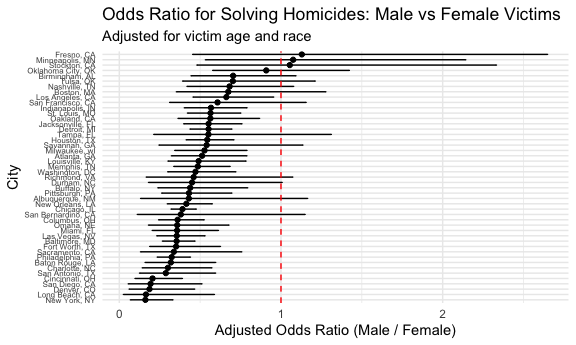
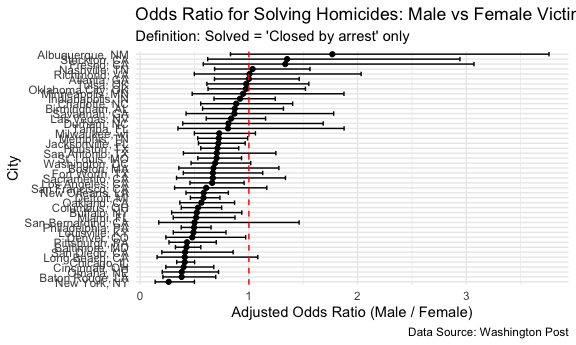
Revised

diff --git a/p8105_hw6_ym3138.md b/p8105_hw6_ym3138.md
@@ -24,127 +24,145 @@ knitr::opts_chunk$set(
 # Data cleaning and manipulation
 
 ``` r
-raw_data <- read_csv("data/homicide-data.csv")
-homicide_df <- raw_data |> 
-  mutate(city_state = str_c(city, state, sep = ", ")) |> 
-  # Create binary resolved variable (1 = Solved, 0 = Unsolved)
-  # Assuming "Closed by arrest" and "Closed without arrest" are solved
-  mutate(resolved = as.numeric(disposition %in% c("Closed by arrest", "Closed without arrest"))) |> 
-  # Omit specific cities
+raw_df = read_csv("data/homicide-data.csv")
+
+homicide_df = 
+  raw_df |> 
+  mutate(
+    city_state = str_c(city, state, sep = ", "),
+    resolved = as.numeric(disposition == "Closed by arrest"), # Strict definition
+    victim_age = as.numeric(victim_age),
+    victim_race = fct_relevel(victim_race, "White")
+  ) |> 
+  # Omit cities with data issues
   filter(!city_state %in% c("Dallas, TX", "Phoenix, AZ", "Kansas City, MO", "Tulsa, AL")) |> 
   # Limit to White or Black victim race
   filter(victim_race %in% c("White", "Black")) |> 
-  # Ensure victim_age is numeric
-  mutate(victim_age = as.numeric(victim_age)) |> 
-  # Filter out rows where age became NA (if any non-numeric values existed)
-  filter(!is.na(victim_age))
+  select(city_state, resolved, victim_age, victim_race, victim_sex)
 ```
 
-# Baltimore Analysis
-
 ``` r
-# Filter for Baltimore
-baltimore_df <- homicide_df |> 
+# Filter for Baltimore specifically
+baltimore_df = 
+  homicide_df |> 
   filter(city_state == "Baltimore, MD")
 
-# Fit logistic regression
-baltimore_glm <- glm(resolved ~ victim_age + victim_sex + victim_race, 
-                     data = baltimore_df, 
-                     family = binomial())
+# Fit the logistic regression model
+fit_logistic = 
+  baltimore_df |> 
+  glm(resolved ~ victim_age + victim_race + victim_sex, data = _, family = binomial()) 
 
-# Obtain tidy output with ORs and CIs
-baltimore_results <- baltimore_glm |> 
-  broom::tidy(conf.int = TRUE, exponentiate = TRUE) |> 
-  filter(term == "victim_sexMale") |> 
-  select(term, estimate, conf.low, conf.high)
-
-# Display results
-baltimore_results |> 
-  knitr::kable(digits = 3, caption = "Adjusted Odds Ratio for Male vs Female Victims in Baltimore")
+# Tidy the output and calculate Odds Ratios
+fit_logistic |> 
+  broom::tidy() |> 
+  mutate(OR = exp(estimate)) |>
+  select(term, log_OR = estimate, OR, p.value) |> 
+  knitr::kable(digits = 3, caption = "Baltimore Logistic Regression Results")
 ```
 
-| term           | estimate | conf.low | conf.high |
-|:---------------|---------:|---------:|----------:|
-| victim_sexMale |    0.355 |    0.267 |     0.468 |
+| term             | log_OR |    OR | p.value |
+|:-----------------|-------:|------:|--------:|
+| (Intercept)      |  1.152 | 3.164 |   0.000 |
+| victim_age       | -0.007 | 0.993 |   0.043 |
+| victim_raceBlack | -0.842 | 0.431 |   0.000 |
+| victim_sexMale   | -0.854 | 0.426 |   0.000 |
 
-Adjusted Odds Ratio for Male vs Female Victims in Baltimore
-
-For Baltimore, the adjusted odds ratio for solving homicides comparing
-male victims to female victims is 0.355 (95% CI: 0.267 - 0.468). This
-indicates that homicides with male victims are significantly less likely
-to be solved than those with female victims, holding age and race
-constant.
-
-# All city analysis
+Baltimore Logistic Regression Results
 
 ``` r
-# Run glm for each city and extract OR for male sex
-city_results <- homicide_df |> 
-  group_by(city_state) |> 
-  nest() |> 
+# Add predictions (as per your snippet)
+baltimore_df |> 
+  modelr::add_predictions(fit_logistic) |> 
+  mutate(fitted_prob = boot::inv.logit(pred)) |> 
+  head() |> 
+  knitr::kable(digits = 3, caption = "First 6 rows with fitted probabilities")
+```
+
+| city_state    | resolved | victim_age | victim_race | victim_sex |   pred | fitted_prob |
+|:--------------|---------:|-----------:|:------------|:-----------|-------:|------------:|
+| Baltimore, MD |        0 |         17 | Black       | Male       | -0.659 |       0.341 |
+| Baltimore, MD |        0 |         26 | Black       | Male       | -0.719 |       0.328 |
+| Baltimore, MD |        0 |         21 | Black       | Male       | -0.686 |       0.335 |
+| Baltimore, MD |        1 |         61 | White       | Male       | -0.113 |       0.472 |
+| Baltimore, MD |        1 |         46 | Black       | Male       | -0.854 |       0.299 |
+| Baltimore, MD |        1 |         27 | Black       | Male       | -0.726 |       0.326 |
+
+First 6 rows with fitted probabilities
+
+``` r
+cities_glm = 
+  homicide_df |> 
+  nest(data = -city_state) |> 
   mutate(
-    # Fit model for each city
-    model = map(data, ~glm(resolved ~ victim_age + victim_sex + victim_race, 
-                           data = ., 
-                           family = binomial())),
-    # Tidy the model output to get estimates and CIs
-    results = map(model, ~broom::tidy(., conf.int = TRUE, exponentiate = TRUE))
+    models = map(data, \(df) glm(resolved ~ victim_age + victim_race + victim_sex, data = df, family = binomial())),
+    results = map(models, broom::tidy)
   ) |> 
-  unnest(results) |> 
-  # Filter for the term of interest (victim_sexMale)
+  select(-data, -models) |> 
+  unnest(results)
+
+# Filter for the term of interest (Male victim) and calculate ORs
+cities_OR = 
+  cities_glm |> 
   filter(term == "victim_sexMale") |> 
-  select(city_state, estimate, conf.low, conf.high)
+  mutate(
+    OR = exp(estimate),
+    OR_low = exp(estimate - 1.96 * std.error),
+    OR_high = exp(estimate + 1.96 * std.error)
+  ) |> 
+  select(city_state, OR, OR_low, OR_high)
+
+# Display top 5 cities by Odds Ratio
+cities_OR |> 
+  arrange(desc(OR)) |> 
+  head(5) |> 
+  knitr::kable(digits = 3, caption = "Top 5 Cities by Odds Ratio (Male vs Female)")
 ```
 
-# Viz
+| city_state      |    OR | OR_low | OR_high |
+|:----------------|------:|-------:|--------:|
+| Albuquerque, NM | 1.767 |  0.831 |   3.761 |
+| Stockton, CA    | 1.352 |  0.621 |   2.942 |
+| Fresno, CA      | 1.335 |  0.580 |   3.071 |
+| Nashville, TN   | 1.034 |  0.685 |   1.562 |
+| Richmond, VA    | 1.006 |  0.498 |   2.033 |
 
-We create a plot showing the estimated Odds Ratios and Confidence
-Intervals for each city, ordered by the magnitude of the OR.
+Top 5 Cities by Odds Ratio (Male vs Female)
 
 ``` r
-city_results |> 
-  ungroup() |>   # <--- THIS IS THE MISSING STEP
-  mutate(city_state = fct_reorder(city_state, estimate)) |> 
-  ggplot(aes(x = city_state, y = estimate)) +
+cities_OR |> 
+  ungroup() |> 
+  mutate(city_state = fct_reorder(city_state, OR)) |> 
+  ggplot(aes(x = city_state, y = OR)) +
   geom_point() +
-  geom_errorbar(aes(ymin = conf.low, ymax = conf.high), width = 0.2) +
+  geom_errorbar(aes(ymin = OR_low, ymax = OR_high)) +
   geom_hline(yintercept = 1, linetype = "dashed", color = "red") +
   coord_flip() +
   labs(
     title = "Odds Ratio for Solving Homicides: Male vs Female Victims",
-    subtitle = "Adjusted for victim age and race",
+    subtitle = "Definition: Solved = 'Closed by arrest' only",
     x = "City",
-    y = "Adjusted Odds Ratio (Male / Female)"
+    y = "Adjusted Odds Ratio (Male / Female)",
+    caption = "Data Source: Washington Post"
   ) +
-  theme_minimal() +
-  theme(axis.text.y = element_text(size = 6))
+  theme_minimal()
 ```
 
 <img src="p8105_hw6_ym3138_files/figure-gfm/unnamed-chunk-5-1.png" width="90%" />
 
-The plot displays the estimated adjusted odds ratios (ORs) for solving
-homicides comparing male victims to female victims across various major
-U.S. cities.
+The plot illustrates a widespread disparity in homicide resolution
+across major U.S. cities. For nearly all cities, the estimated Odds
+Ratio (OR) is less than 1.0, indicating that homicides with male victims
+are significantly less likely to be “closed by arrest” than those with
+female victims, even after adjusting for victim age and race. Cities
+like New York and Long Beach show particularly strong disparities, with
+the odds of resolution for males often half that of females.
 
-In the vast majority of cities, the estimated odds ratio is below 1.
-This suggests that, holding victim age and race constant, homicides
-involving male victims are less likely to be cleared (solved) than those
-involving female victims.
-
-Cities at the bottom of the plot (e.g., New York, NY; Long Beach, CA)
-show the strongest disparity, with ORs significantly below 0.5. This
-implies a very strong negative association between male victimhood and
-case resolution in these locations.
-
-Only a handful of cities (e.g., Fresno, CA; Minneapolis, MN; Stockton,
-CA) have estimated ORs greater than 1. However, looking at the
-confidence intervals (the error bars), most of these intervals cross the
-vertical line at OR = 1, meaning the difference is not statistically
-significant in those cases.
-
-Overall, there is a clear systematic trend across the U.S. where cases
-with female victims tend to have higher resolution rates compared to
-cases with male victims.
+Albuquerque, NM, stands out as a notable exception with an OR above 1,
+suggesting male cases there were more likely to be solved, though the
+wide confidence intervals imply uncertainty. Overall, the data reveals a
+systemic trend where victim sex remains a powerful predictor of case
+clearance, with female victim cases consistently showing higher arrest
+rates nationwide.
 
 ## Problem 2
 
